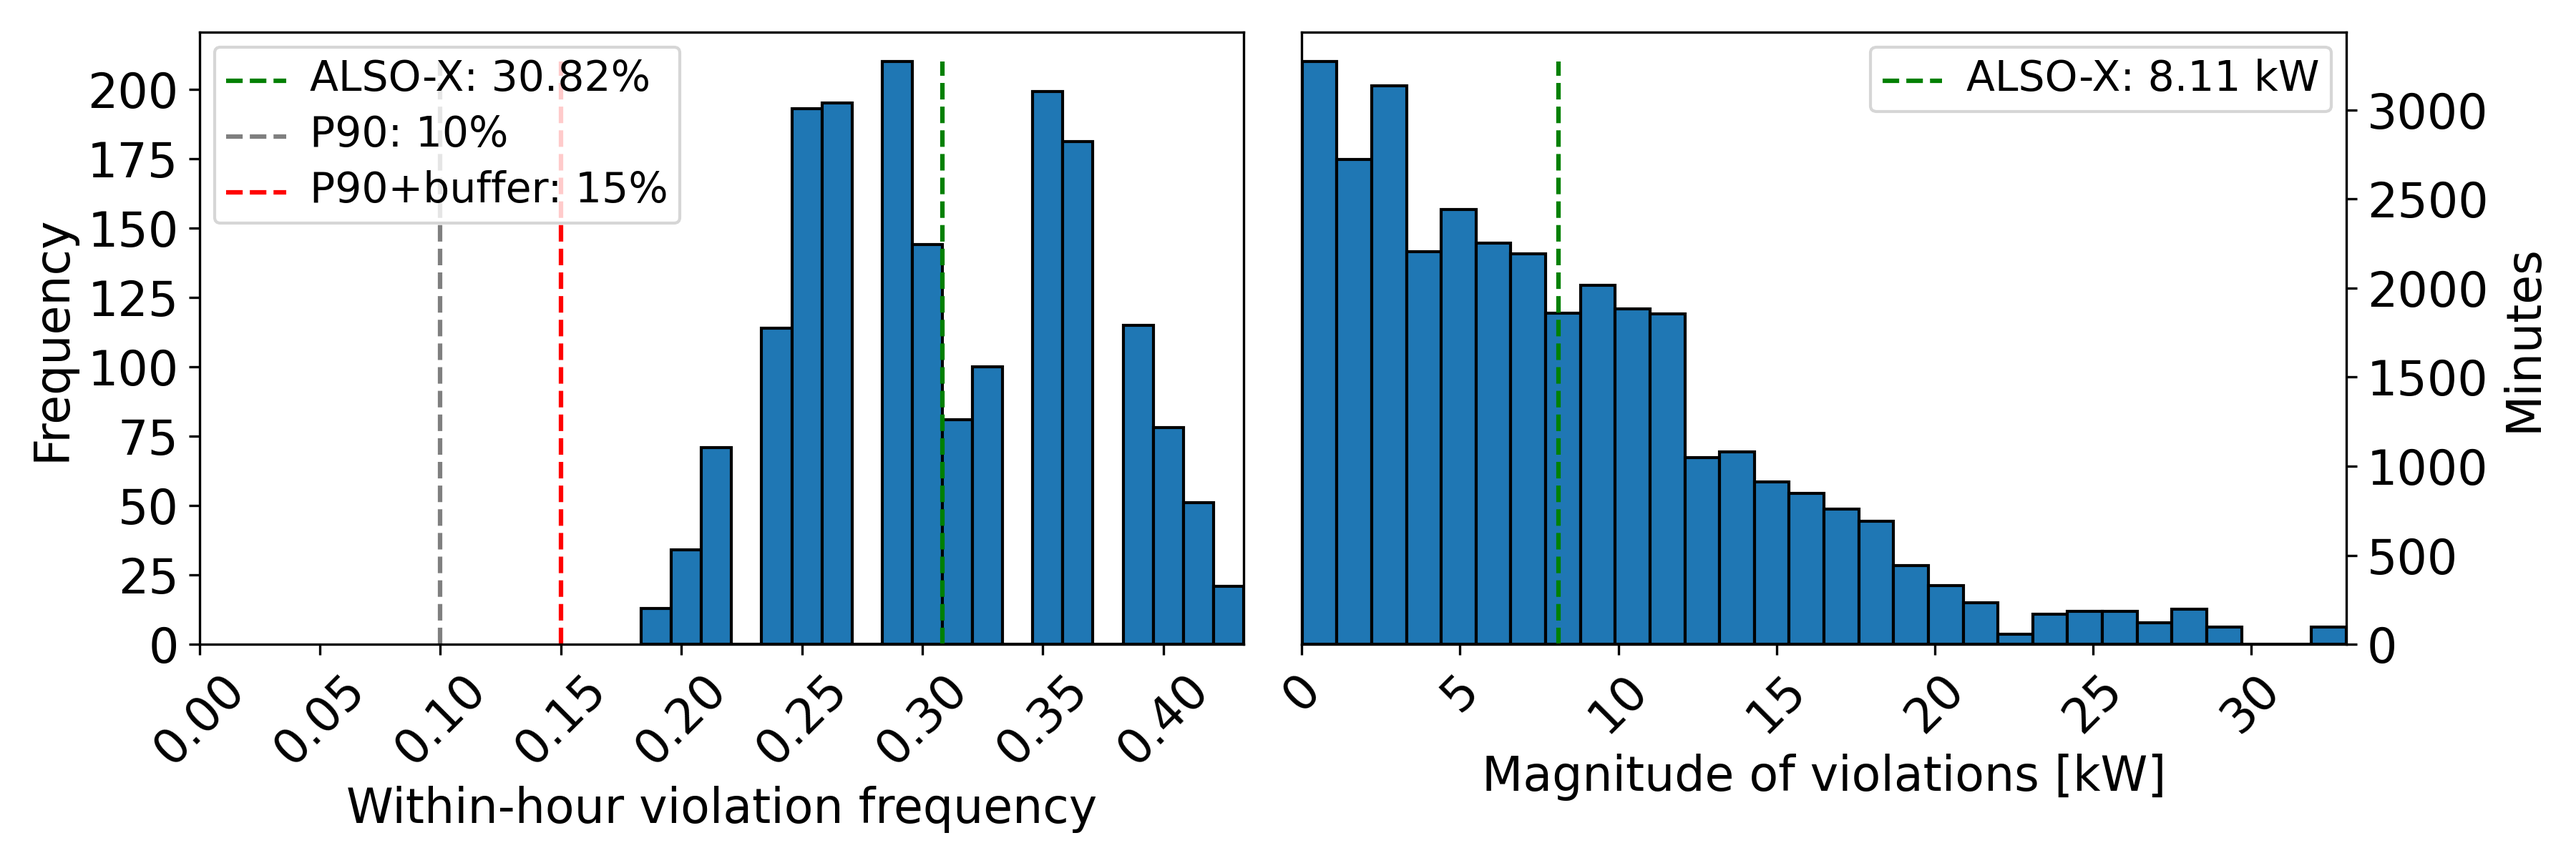
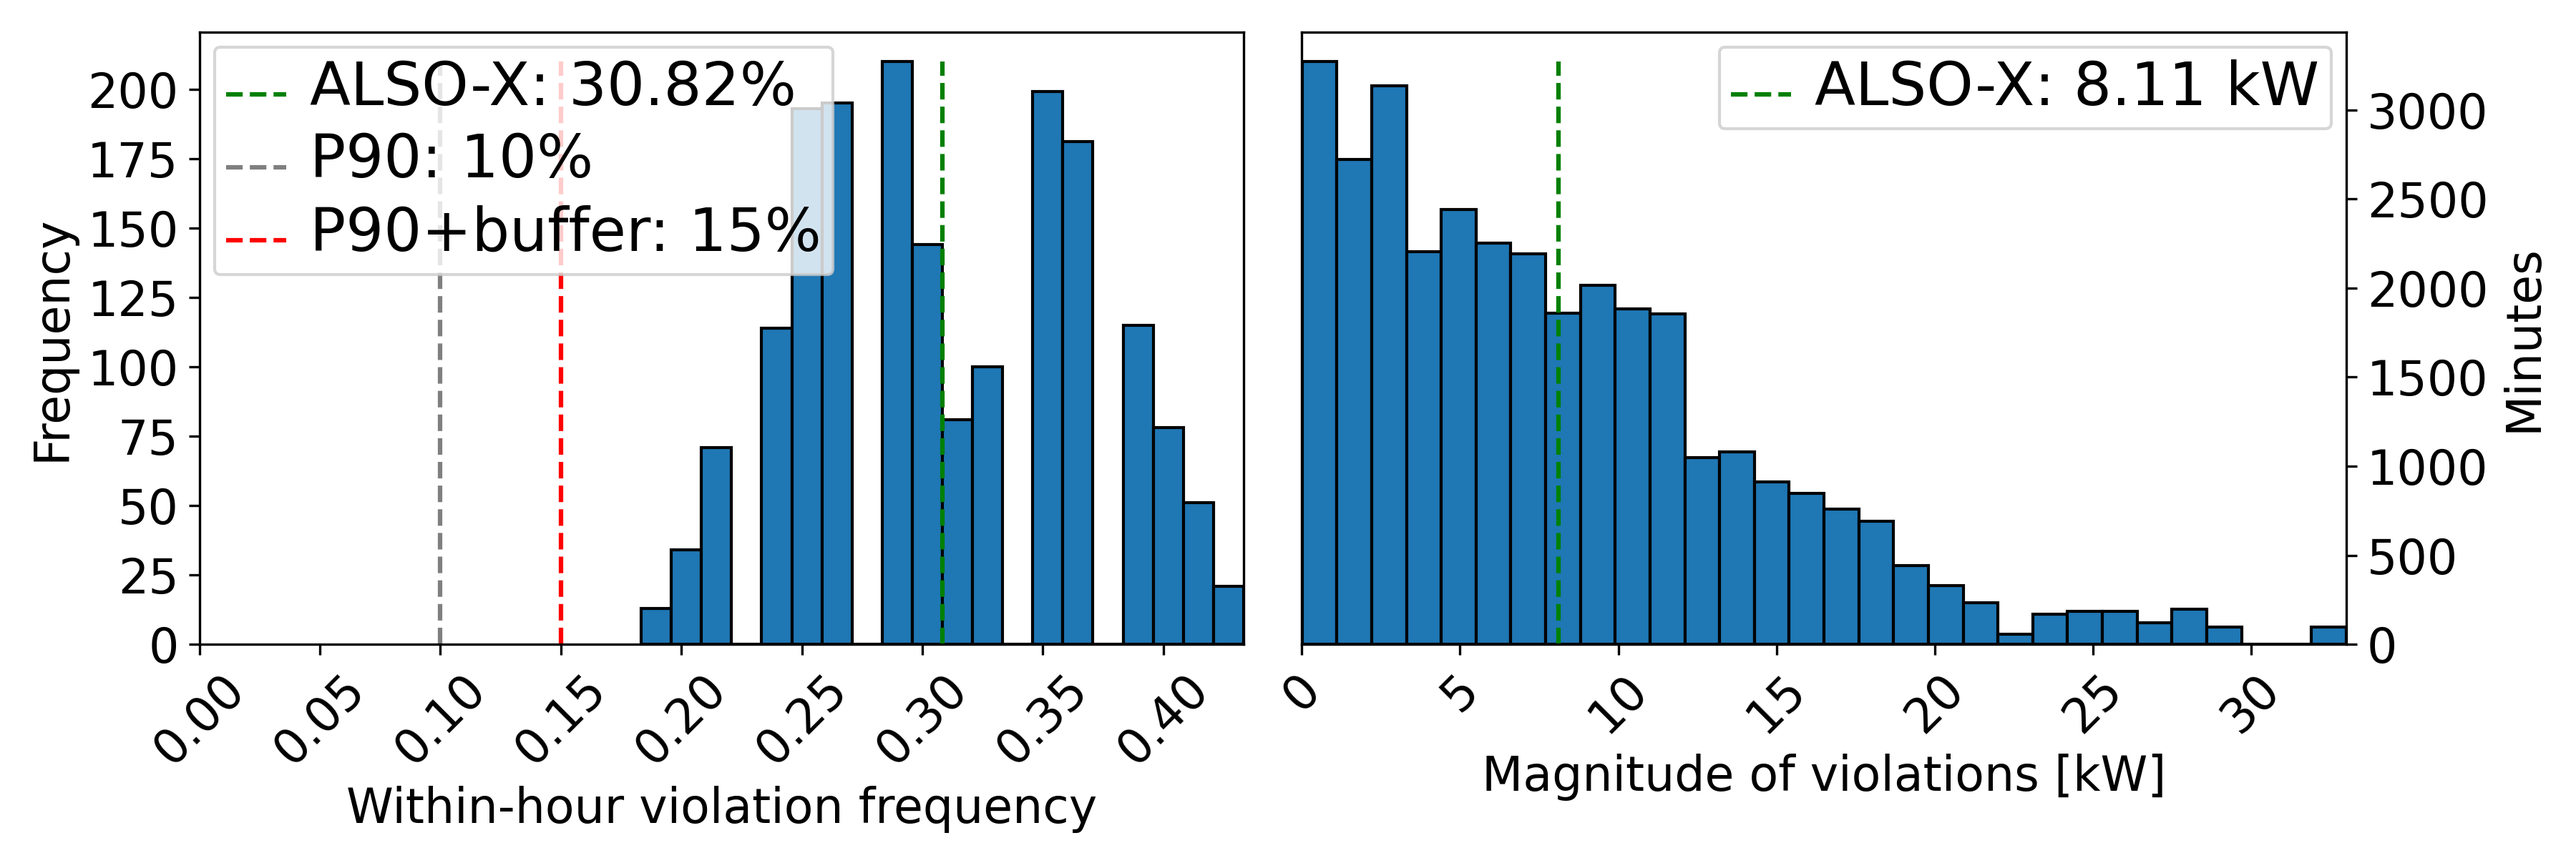
Figures for phd defence

Changed region(s): [[0.0933, 0.0308, 0.3422, 0.3392], [0.6533, 0.0617, 0.9022, 0.1542], [0.6844, 0.0308, 0.7156, 0.0617]]

diff --git a/src/main.py b/src/main.py
@@ -2,27 +2,34 @@
 import matplotlib.pyplot as plt
 import numpy as np
 import tikzplotlib
-from also_x import run_also_x
-from base import CrossValidator, IS_OOS_Enum, Method_Enum, OptimizationInstance, Setup
-from bi_level import EPSILON, run_bi_level
-from cvar import run_cvar
-from data_generator import (
+
+from src.also_x import run_also_x
+from src.base import (
+    CrossValidator,
+    IS_OOS_Enum,
+    Method_Enum,
+    OptimizationInstance,
+    Setup,
+)
+from src.bi_level import EPSILON, run_bi_level
+from src.cvar import run_cvar
+from src.data_generator import (
     compute_ev_consumption,
     create_emprical_distribution,
     create_oos_distribution,
     draw_charging_events,
     generate_probability_vector,
 )
-from drjcc import run_drjcc, run_three_thetas
-from evaluate import evaluate
-from utils import _set_font_size
+from src.drjcc import run_drjcc, run_three_thetas
+from src.evaluate import evaluate
+from src.utils import _set_font_size
 
 SAVE_PLOT = False
 P90_EPSILON = 0.10
 
-RUN_ALL_THREE = False
+RUN_ALL_THREE = True
 RUN_THREE_THETA_RESULTS = False
-RUN_BI_LEVEL = True
+RUN_BI_LEVEL = False
 
 p_cap_opt, p_cap_opt2, p_cap_opt3, p_cap_opt4, p_cap_opt5 = None, None, None, None, None  # type: ignore
 is_result, is_result2, is_result3, is_result4, is_result5 = None, None, None, None, None  # type: ignore
@@ -445,19 +452,19 @@ for i, result in enumerate([oos_result, oos_result2, oos_result3]):
         plt.sca(ax_)
         plt.xticks(rotation=45)
 
-    _set_font_size(ax[i1], misc=16, legend=14)
-    _set_font_size(ax[i1 + 1], misc=16, legend=14)
+    _set_font_size(ax[i1], misc=16, legend=20)
+    _set_font_size(ax[i1 + 1], misc=16, legend=20)
 
     # tight
     plt.tight_layout()
 
-    if SAVE_PLOT:
-        # NOTE: tikzplotlib can't convert legend as \draw commands does not have \addlegendentry
-        # tikzplotlib.save(
-        #     f"tex/figures/drjcc_oos_histograms_{method}.tikz",
-        #     axis_width="0.49\\textwidth",
-        # )
-        plt.savefig(f"tex/figures/drjcc_oos_histograms_{method}.png", dpi=300)
+    # if SAVE_PLOT:
+    # NOTE: tikzplotlib can't convert legend as \draw commands does not have \addlegendentry
+    # tikzplotlib.save(
+    #     f"tex/figures/drjcc_oos_histograms_{method}.tikz",
+    #     axis_width="0.49\\textwidth",
+    # )
+    plt.savefig(f"tex/figures/drjcc_oos_histograms_{method}.png", dpi=300)
 
 plt.show()
 

diff --git a/src/bi_level.py b/src/bi_level.py
@@ -3,10 +3,11 @@ from dataclasses import dataclass, field
 from typing import Dict, List, Tuple, cast
 
 import numpy as np
-from base import IS_OOS_Enum, Method_Enum, OptimizationInstance
-from evaluate import evaluate
 from gurobipy import GRB, Model
-from utils import timing
+
+from src.base import IS_OOS_Enum, Method_Enum, OptimizationInstance
+from src.evaluate import evaluate
+from src.utils import timing
 
 EPSILON = list(round(x, 2) for x in np.arange(0.01, 0.31, 0.01))
 # EPSILON = list(round(x, 2) for x in np.arange(0.05, 0.16, 0.01))

diff --git a/src/drjcc.py b/src/drjcc.py
@@ -3,10 +3,11 @@ from dataclasses import dataclass, field
 from typing import Tuple, cast
 
 import numpy as np
-from base import IS_OOS_Enum, Method_Enum, OptimizationInstance
-from evaluate import evaluate
 from gurobipy import GRB, Model
-from utils import timing
+
+from src.base import IS_OOS_Enum, Method_Enum, OptimizationInstance
+from src.evaluate import evaluate
+from src.utils import timing
 
 
 class InfeasibleError(Exception):

diff --git a/src/data_generator.py b/src/data_generator.py
@@ -2,8 +2,9 @@ from typing import Tuple
 
 import numba
 import numpy as np
-from base import CrossValidator, IS_OOS_Enum, Setup
-from utils import timing
+
+from src.base import CrossValidator, IS_OOS_Enum, Setup
+from src.utils import timing
 
 
 def generate_probability_vector(rng: np.random.Generator) -> np.ndarray:

diff --git a/src/also_x.py b/src/also_x.py
@@ -2,9 +2,10 @@ from dataclasses import dataclass
 from typing import Tuple, cast
 
 import numpy as np
-from base import OptimizationInstance
 from gurobipy import GRB, Model
-from utils import timing
+
+from src.base import OptimizationInstance
+from src.utils import timing
 
 
 @dataclass

diff --git a/src/cvar.py b/src/cvar.py
@@ -2,9 +2,10 @@ from dataclasses import dataclass
 from typing import cast
 
 import numpy as np
-from base import OptimizationInstance
 from gurobipy import GRB, Model
-from utils import timing
+
+from src.base import OptimizationInstance
+from src.utils import timing
 
 
 @dataclass

diff --git a/src/evaluate.py b/src/evaluate.py
@@ -1,5 +1,6 @@
 import numpy as np
-from base import IS_OOS_Enum, Method_Enum, OptimizationInstance, Result
+
+from src.base import IS_OOS_Enum, Method_Enum, OptimizationInstance, Result
 
 
 def evaluate(
